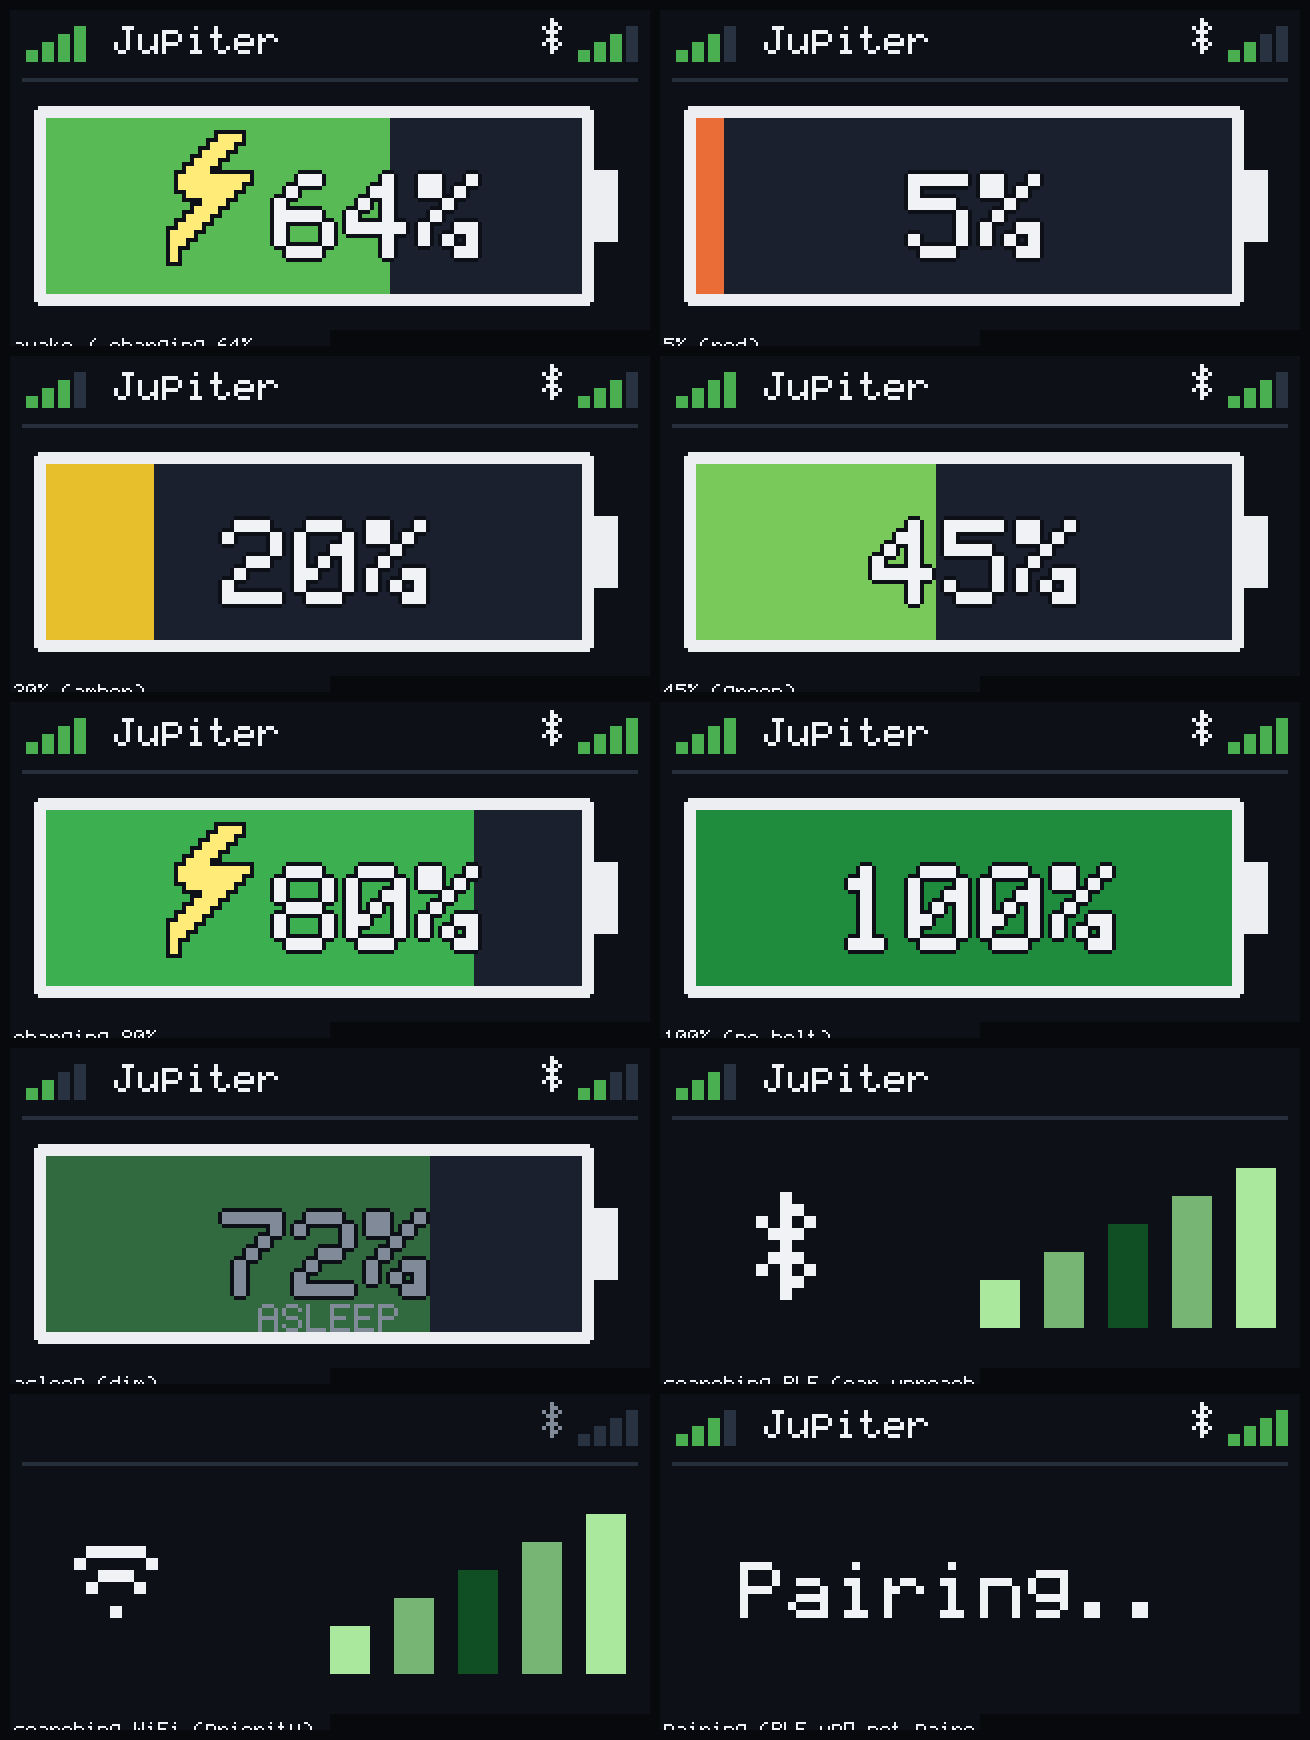
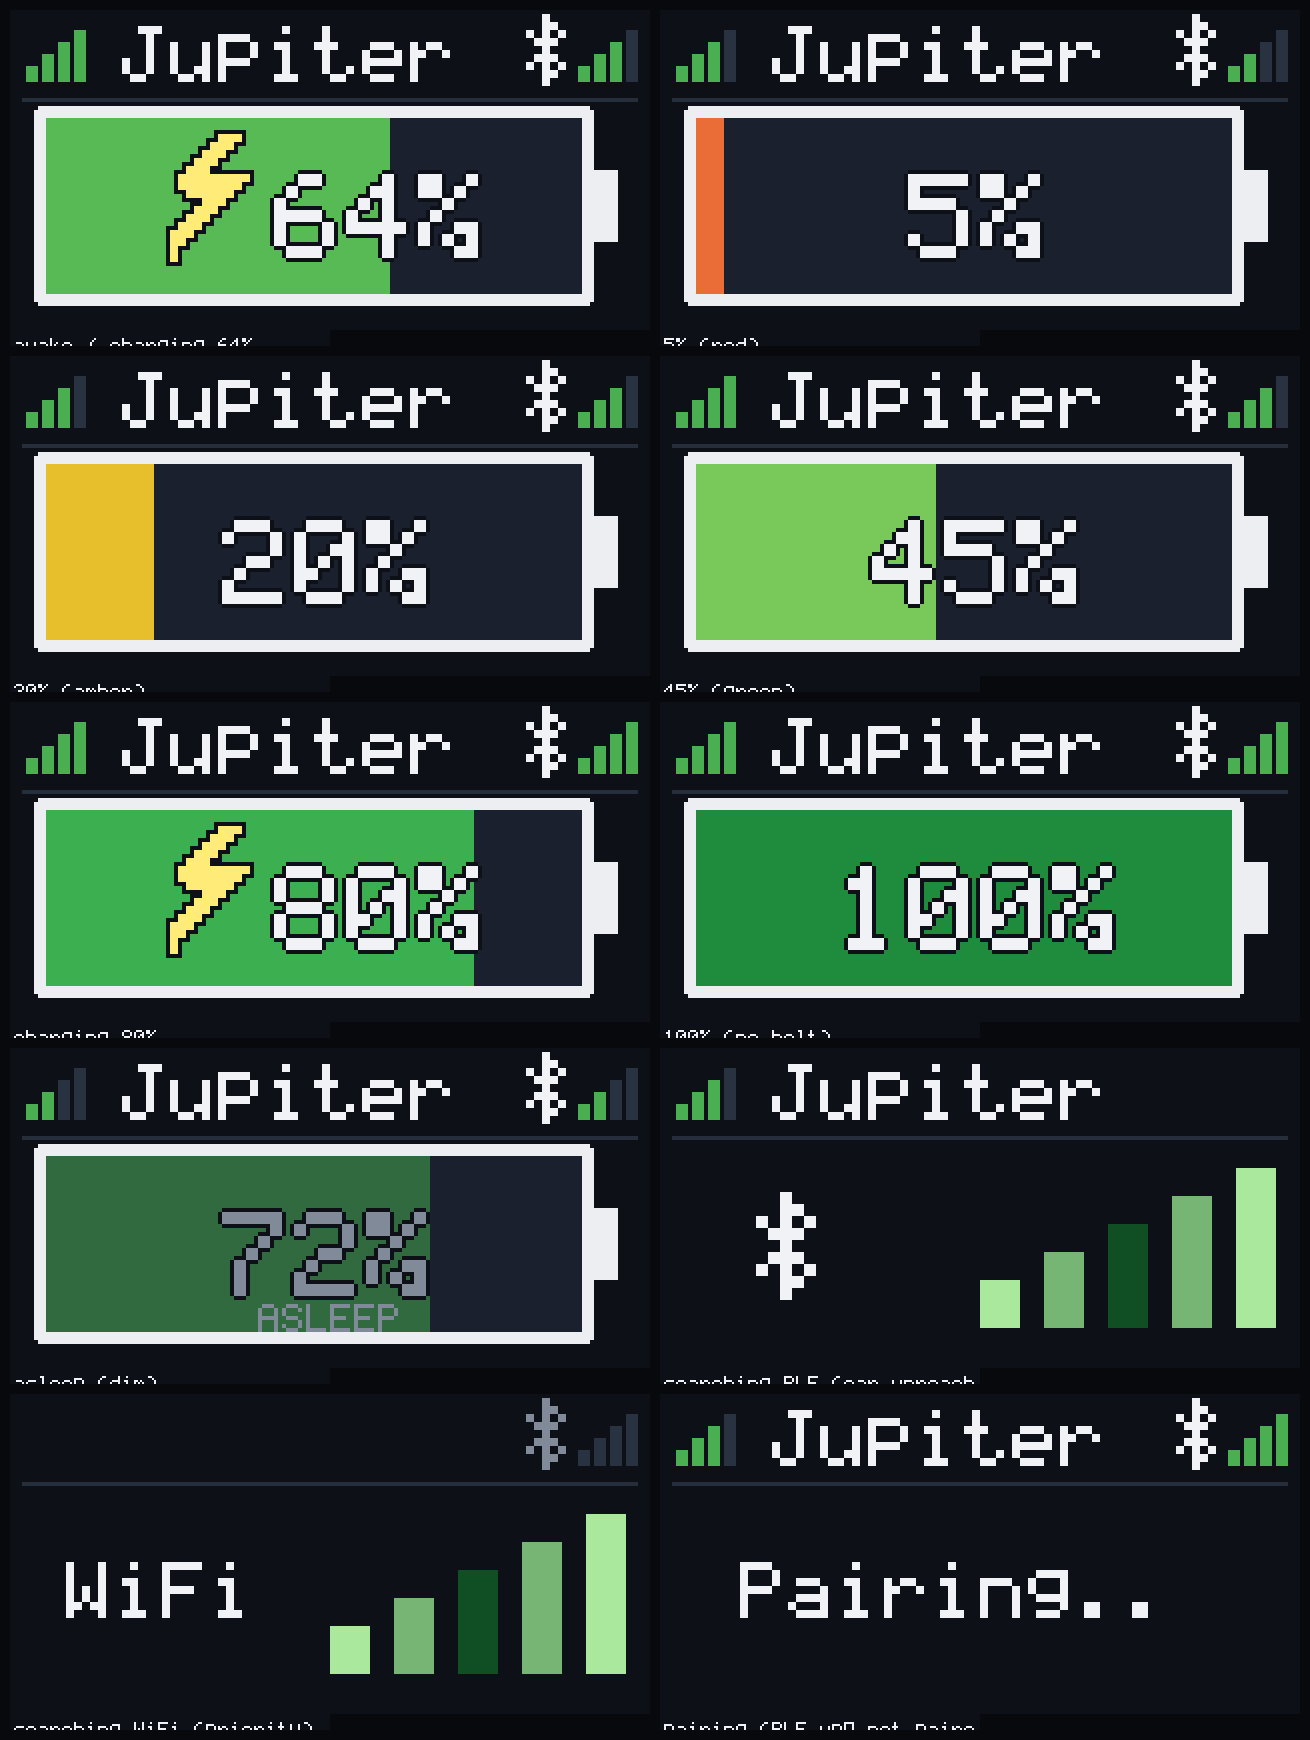
feat(t-dongle-s3): rotate 180°, taller status bar, "WiFi" text when searching
Three display tweaks, hardware-tuned:

- rotate the panel 180° — board overlay MADCTL 0x68 → 0xA8 (MY|MV|BGR); offsets
  stay column 1 / row 26 (the panel is centred in GRAM, so the flip keeps them)
- taller, more legible status bar: scale-2 SSID, taller signal bars, a scale-2
  Bluetooth glyph, divider pushed down to y22
- the WiFi searching state now reads the word "WiFi" instead of a WiFi glyph
  (clearer at a glance); BLE keeps its Bluetooth symbol. draw_searching split into
  draw_search_bars + icon/text variants; the now-unused WiFi glyph is removed
  (sim + display_font.h)

Mirrored in tools/display_sim.py; verified on real T-Dongle-S3 hardware.

diff --git a/tools/display_sim.py b/tools/display_sim.py
@@ -141,17 +141,6 @@ BOLT_ROWS = [
     "#.........",
     "#.........",
 ]
-# WiFi glyph (7 wide x 6 tall): two broadcast arcs over a dot. Used as the icon for
-# the WiFi searching animation (emitted as DISPLAY_WIFI_ROWS; keep in sync).
-WIFI_ROWS = [
-    ".#####.",
-    "#.....#",
-    "..###..",
-    ".#...#.",
-    ".......",
-    "...#...",
-]
-
 # ── tiny stdlib PNG writer ────────────────────────────────────────────────────
 def write_png(path, w, h, rgb):
     def chunk(tag, data):
@@ -268,11 +257,11 @@ def fit(s, maxpx, scale=1):
     return (s[:max(0, n-1)] + ".") if n >= 1 else ""
 
 def signal_bars(cv, x, y, level, on_col=BAR_ON):
-    """4 ascending bars, bottom-aligned at y+10; lit green, unlit dark."""
+    """4 ascending bars, bottom-aligned at y+14; lit green, unlit dark."""
     for i in range(4):
-        bh = 3 + i*2
+        bh = 4 + i*3
         col = on_col if i < level else BAR_OFF
-        cv.rect(x + i*4, y + (10 - bh), x + i*4 + 3, y + 10, col)
+        cv.rect(x + i*4, y + (14 - bh), x + i*4 + 3, y + 14, col)
 
 # Big BLE "searching for a connection" animation, drawn where the battery would
 # be (no battery while disconnected): a Bluetooth symbol on the left and a compact
@@ -281,18 +270,14 @@ def signal_bars(cv, x, y, level, on_col=BAR_ON):
 SRCH_N, SRCH_BW, SRCH_GAP, SRCH_X0, SRCH_BASE = 5, 10, 6, 80, 70   # compact, right-flush
 SRCH_ICON_SCALE = 3
 SRCH_BT_X, SRCH_BT_Y = 24, 36                     # Bluetooth glyph, off the left edge
-SRCH_WIFI_X, SRCH_WIFI_Y = 16, 38                 # WiFi glyph (wider), off the left edge
 SRCH_STEPS = 3                                    # animation sub-frames per bar
 SRCH_FALLOFF = 1.5                                # highlight width, in bars
 SRCH_HALF = (SRCH_N - 1) * SRCH_STEPS             # frames for one direction (small↔large)
 SRCH_CYCLE = 2 * SRCH_HALF                        # full ping-pong period
 
-# icon = (rows, x, y); the swept bars are identical for WiFi and BLE searches.
-# The highlight ping-pongs: smallest→largest bar, then largest→smallest, repeating
-# (a triangle wave) — a wave that runs out and back, not a one-way scan.
-def draw_searching(cv, frame, icon):
-    rows, ix, iy = icon
-    cv.bitmap(ix, iy, rows, INK, SRCH_ICON_SCALE)           # which link is being searched
+# The swept bars are identical for WiFi and BLE searches; the highlight ping-pongs
+# (a triangle wave) out and back across them — not a one-way scan.
+def draw_search_bars(cv, frame):
     p = frame % SRCH_CYCLE
     hp = (p / SRCH_STEPS) if p <= SRCH_HALF else ((SRCH_CYCLE - p) / SRCH_STEPS)  # bounce
     for i in range(SRCH_N):
@@ -302,8 +287,19 @@ def draw_searching(cv, frame, icon):
         x = SRCH_X0 + i * (SRCH_BW + SRCH_GAP)
         cv.rect(x, SRCH_BASE - h, x + SRCH_BW, SRCH_BASE, col)
 
-SRCH_ICON_BLE  = (BT_ROWS,   SRCH_BT_X,   SRCH_BT_Y)
-SRCH_ICON_WIFI = (WIFI_ROWS, SRCH_WIFI_X, SRCH_WIFI_Y)
+# label = ("icon", rows, x, y) draws a bitmap glyph; ("text", str, scale, x, y)
+# draws a word — used so the WiFi search reads "WiFi" while BLE keeps its symbol.
+def draw_searching(cv, frame, label):
+    if label[0] == "icon":
+        _, rows, ix, iy = label
+        cv.bitmap(ix, iy, rows, INK, SRCH_ICON_SCALE)
+    else:
+        _, s, scale, ix, iy = label
+        cv.text(ix, iy, s, INK, scale)
+    draw_search_bars(cv, frame)
+
+SRCH_ICON_BLE  = ("icon", BT_ROWS, SRCH_BT_X, SRCH_BT_Y)
+SRCH_ICON_WIFI = ("text", "WiFi", 2, 14, 42)   # "WiFi" word instead of the glyph
 
 # Shown (instead of the search bars) once a BLE link is up but pairing isn't done:
 # big "Pairing" with an animated 0–3 dot ellipsis (fixed left so it doesn't jiggle).
@@ -335,17 +331,18 @@ def compose(cv, st):
     # ── header: WiFi bars + SSID (left) | BLE symbol + bars (right) ──────────
     # Hide whichever small indicator is the active search hero; the big centre
     # animation represents it instead.
+    # Taller, more legible status bar: scale-2 SSID, taller bars, divider at y22.
     if not wifi_searching:
-        signal_bars(cv, 4, 3, st.get("wifi", 0))
-        name_max = (158 - 26) if ble_bars else (158 - 26 - 36)
-        cv.text(26, 4, fit(st.get("ssid") or "-", name_max), INK)
+        signal_bars(cv, 4, 4, st.get("wifi", 0))
+        name_max = (158 - 28) if ble_bars else (158 - 28 - 32)
+        cv.text(28, 4, fit(st.get("ssid") or "-", name_max, 2), INK, 2)
 
     if not ble_bars:
         bx = 158 - 16                  # 4 bars * 4px
-        signal_bars(cv, bx, 3, st.get("ble", 0) if ble_conn else 0)
-        cv.bitmap(bx - 9, 2, BT_ROWS, INK if ble_conn else GREY)
+        signal_bars(cv, bx, 4, st.get("ble", 0) if ble_conn else 0)
+        cv.bitmap(bx - 13, 1, BT_ROWS, INK if ble_conn else GREY, 2)  # BT glyph, scale 2
 
-    cv.rect(3, 17, W - 3, 18, DIV)     # divider under the header
+    cv.rect(3, 22, W - 3, 23, DIV)     # divider under the (taller) header
 
     # ── centre: WiFi search > pairing > battery > BLE search bars ────────────
     f = st.get("frame", 0)
@@ -537,13 +534,6 @@ def cmd_cheader(out="main/display_font.h"):
     L.append("#define DISPLAY_BOLT_H %d" % len(lrows))
     L.append("static const uint16_t DISPLAY_BOLT_ROWS[%d] = {%s};" %
              (len(lrows), ",".join("0x%04x" % v for v in lrows)))
-    # WiFi glyph (row-major bitmap) — icon for the WiFi searching animation
-    ww, wrows = rows_bits(WIFI_ROWS)
-    L.append("// WiFi glyph (broadcast arcs + dot), row-major (same bit convention as BT).")
-    L.append("#define DISPLAY_WIFI_W %d" % ww)
-    L.append("#define DISPLAY_WIFI_H %d" % len(wrows))
-    L.append("static const uint8_t DISPLAY_WIFI_ROWS[%d] = {%s};" %
-             (len(wrows), ",".join("0x%02x" % v for v in wrows)))
     open(out, "w").write("\n".join(L) + "\n")
     print("wrote", out)
 

diff --git a/main/display.cpp b/main/display.cpp
@@ -250,12 +250,12 @@ static void blit_rows_outline(int x, int y, const T* rows, int w, int h, int sca
     blit_rows(x, y, rows, w, h, scale, col);
 }
 
-// 4 ascending bars, bottom-aligned at y+10; lit in `on`, unlit dark.
+// 4 ascending bars, bottom-aligned at y+14; lit in `on`, unlit dark.
 static void signal_bars(int x, int y, int level, uint16_t on) {
     for (int i = 0; i < 4; ++i) {
-        int bh = 3 + i * 2;
+        int bh = 4 + i * 3;
         uint16_t col = (i < level) ? on : C_BAR_OFF;
-        rect(x + i * 4, y + (10 - bh), x + i * 4 + 3, y + 10, col);
+        rect(x + i * 4, y + (14 - bh), x + i * 4 + 3, y + 14, col);
     }
 }
 
@@ -268,23 +268,22 @@ static int rssi_bars(int rssi) {
 }
 
 // "Searching for a connection" animation, drawn where the battery would be (no
-// battery while disconnected): a link icon (Bluetooth or WiFi) on the left and a
-// compact, right-flush cluster of 5 ascending bars; a dark-green highlight sweeps
-// across light-green bars (a flowing colour gradient) to read as "scanning". The
-// swept bars are identical for WiFi and BLE — only the icon differs.
-// Mirrors draw_searching() in tools/display_sim.py.
+// battery while disconnected): a link label on the left — a Bluetooth glyph for BLE,
+// or the word "WiFi" for WiFi — and a compact, right-flush cluster of 5 ascending
+// bars whose dark-green highlight sweeps across light-green bars to read as
+// "scanning". The swept bars are identical for WiFi and BLE; only the label differs.
+// Mirrors draw_search_bars()/draw_searching_* in tools/display_sim.py.
 static constexpr int   SRCH_N = 5, SRCH_BW = 10, SRCH_GAP = 6, SRCH_X0 = 80, SRCH_BASE = 70;  // compact, right-flush
 static constexpr int   SRCH_ICON_SCALE = 3;
 static constexpr int   SRCH_BT_X = 24, SRCH_BT_Y = 36;      // Bluetooth glyph, off the left edge
-static constexpr int   SRCH_WIFI_X = 16, SRCH_WIFI_Y = 38;  // WiFi glyph (wider), off the left edge
 static constexpr int   SRCH_STEPS = 3;                       // animation sub-frames per bar
 static constexpr float SRCH_FALLOFF = 1.5f;                  // highlight width, in bars
 static constexpr int   SRCH_HALF = (SRCH_N - 1) * SRCH_STEPS;   // one direction (small↔large)
 static constexpr int   SRCH_CYCLE = 2 * SRCH_HALF;           // full ping-pong period
 
-static void draw_searching(int frame, const uint8_t* icon, int iw, int ih, int ix, int iy) {
-    blit_rows(ix, iy, icon, iw, ih, SRCH_ICON_SCALE, C_INK);  // which link is being searched
-    // The highlight ping-pongs smallest↔largest bar (a triangle wave): out and back.
+// The swept bars are identical for WiFi and BLE searches; the highlight ping-pongs
+// (a triangle wave) out and back across them — not a one-way scan.
+static void draw_search_bars(int frame) {
     int p = frame % SRCH_CYCLE;
     float hp = (p <= SRCH_HALF ? p : (SRCH_CYCLE - p)) / (float)SRCH_STEPS;
     for (int i = 0; i < SRCH_N; ++i) {
@@ -297,6 +296,16 @@ static void draw_searching(int frame, const uint8_t* icon, int iw, int ih, int i
         int x = SRCH_X0 + i * (SRCH_BW + SRCH_GAP);
         rect(x, SRCH_BASE - h, x + SRCH_BW, SRCH_BASE, col);
     }
+}
+// BLE search: a Bluetooth glyph left of the bars.
+static void draw_searching_icon(int frame, const uint8_t* icon, int iw, int ih, int ix, int iy) {
+    blit_rows(ix, iy, icon, iw, ih, SRCH_ICON_SCALE, C_INK);
+    draw_search_bars(frame);
+}
+// WiFi search: the word "WiFi" left of the bars (clearer than a glyph here).
+static void draw_searching_text(int frame, const char* s, int scale, int x, int y) {
+    draw_text(x, y, s, C_INK, scale);
+    draw_search_bars(frame);
 }
 
 // Shown (instead of the search bars) once a BLE link is up but pairing isn't done:
@@ -341,36 +350,35 @@ static bool compose(VehicleController& v, int frame, bool paired) {
     // BLE search bars appear ONLY when the car is out of range (no link, no data).
     bool ble_bars = !(wifi_searching || pairing || battery_ok);
 
-    // ── header: WiFi bars + SSID (left) | BLE symbol + bars (right) ──────────
+    // ── header (taller, more legible): WiFi bars + SSID (scale 2) | BT + bars ─
     // Hide whichever small indicator is the active search hero; the big centre
     // animation represents it instead.
     if (!wifi_searching) {
-        signal_bars(4, 3, rssi_bars(ap.rssi), C_BAR_ON);
+        signal_bars(4, 4, rssi_bars(ap.rssi), C_BAR_ON);
         snprintf(buf, sizeof(buf), "%s", (const char*)ap.ssid);
-        fit(buf, ble_bars ? (158 - 26) : (158 - 26 - 36));
-        draw_text(26, 4, buf, C_INK, 1);
+        fit(buf, (ble_bars ? (158 - 28) : (158 - 28 - 32)) / 2);  // /2 → scale-2 width
+        draw_text(28, 4, buf, C_INK, 2);
     }
     if (!ble_bars) {
         int8_t brssi = 0;
         bool rssi_ok = ble_connected && v.ble_rssi(brssi);
         int bx = 158 - 16;                    // 4 bars * 4px
-        signal_bars(bx, 3, rssi_ok ? rssi_bars(brssi) : 0, C_BAR_ON);
-        blit_rows(bx - 9, 2, DISPLAY_BT_ROWS, DISPLAY_BT_W, DISPLAY_BT_H, 1,
-                  ble_connected ? C_INK : C_GREY);
+        signal_bars(bx, 4, rssi_ok ? rssi_bars(brssi) : 0, C_BAR_ON);
+        blit_rows(bx - 13, 1, DISPLAY_BT_ROWS, DISPLAY_BT_W, DISPLAY_BT_H, 2,
+                  ble_connected ? C_INK : C_GREY);    // BT glyph, scale 2
     }
 
-    rect(3, 17, W - 3, 18, C_DIV);            // divider under the header
+    rect(3, 22, W - 3, 23, C_DIV);            // divider under the (taller) header
 
     // ── centre: WiFi search > pairing > battery > BLE search bars ────────────
     if (wifi_searching) {
-        draw_searching(frame, DISPLAY_WIFI_ROWS, DISPLAY_WIFI_W, DISPLAY_WIFI_H,
-                       SRCH_WIFI_X, SRCH_WIFI_Y);
+        draw_searching_text(frame, "WiFi", 2, 14, 42);   // "WiFi" word, not a glyph
         return true;
     }
     if (pairing) { draw_pairing(frame); return true; }
     if (!battery_ok) {
-        draw_searching(frame, DISPLAY_BT_ROWS, DISPLAY_BT_W, DISPLAY_BT_H,
-                       SRCH_BT_X, SRCH_BT_Y);
+        draw_searching_icon(frame, DISPLAY_BT_ROWS, DISPLAY_BT_W, DISPLAY_BT_H,
+                            SRCH_BT_X, SRCH_BT_Y);
         return true;
     }
 

diff --git a/main/display.hpp b/main/display.hpp
@@ -10,11 +10,12 @@ class VehicleController;
 //             state dims the fill ("ASLEEP").
 //   • searching/pairing: when a link isn't ready the battery is replaced, by
 //             priority — WiFi search > pairing > battery > BLE search. A "search"
-//             is a link icon (WiFi or Bluetooth) plus a compact bar cluster whose
-//             dark-green highlight ping-pongs across light-green bars. The BLE
-//             search bars show ONLY when the car is out of range; once a BLE link
-//             is up but not yet paired it shows a big animated "Pairing…" instead.
-//             The header hides whichever small indicator is the active search.
+//             is a link label (the word "WiFi", or a Bluetooth glyph for BLE) plus
+//             a compact bar cluster whose dark-green highlight ping-pongs across
+//             light-green bars. The BLE search bars show ONLY when the car is out
+//             of range; once a BLE link is up but not yet paired it shows a big
+//             animated "Pairing…" instead. The header hides whichever small
+//             indicator is the active search.
 // Mirrors tools/display_sim.py one-to-one (the offline pixel-exact renderer and
 // font source of truth — regenerate display_font.h from it).
 //

diff --git a/main/display_font.h b/main/display_font.h
@@ -109,7 +109,3 @@ static const uint8_t DISPLAY_BT_ROWS[9] = {0x04,0x06,0x15,0x0e,0x04,0x0e,0x15,0x
 #define DISPLAY_BOLT_W 10
 #define DISPLAY_BOLT_H 16
 static const uint16_t DISPLAY_BOLT_ROWS[16] = {0x000e,0x001c,0x0038,0x0070,0x00e0,0x01ff,0x01fe,0x00fc,0x0038,0x0070,0x00e0,0x01c0,0x0380,0x0300,0x0200,0x0200};
-// WiFi glyph (broadcast arcs + dot), row-major (same bit convention as BT).
-#define DISPLAY_WIFI_W 7
-#define DISPLAY_WIFI_H 6
-static const uint8_t DISPLAY_WIFI_ROWS[6] = {0x3e,0x41,0x1c,0x22,0x00,0x08};

diff --git a/docs/README.md b/docs/README.md
@@ -27,10 +27,11 @@ display shows a **header** (WiFi signal bars + SSID on the left, a Bluetooth sym
 bars on the right) and a **gradient battery** filled to the SoC (red → amber → green), with a
 **charging bolt** while charging (hidden at 100 %) and an **ASLEEP** (dimmed) state. When a
 link isn't ready the battery is replaced, by priority — **WiFi search > pairing > battery >
-BLE search**. A search is a link icon (WiFi or Bluetooth) plus a compact bar cluster whose
-dark-green highlight ping-pongs across light-green bars; the **BLE search bars show only when
-the car is out of range**, and once a BLE link is up but not yet paired it shows a big animated
-**"Pairing…"** instead. The header hides whichever small indicator is the active search. All
+BLE search**. A search is a link label (the word **WiFi**, or a Bluetooth glyph for BLE) plus a
+compact bar cluster whose dark-green highlight ping-pongs across light-green bars; the **BLE
+search bars show only when the car is out of range**, and once a BLE link is up but not yet
+paired it shows a big animated **"Pairing…"** instead. The header hides whichever small
+indicator is the active search. All
 from cache-only state, so it never wakes the car and does not depend on MQTT. Offline
 pixel-exact validation: `python3 tools/display_sim.py states` (every state) and `python3
 tools/display_sim.py search` (the WiFi and BLE searching animations).